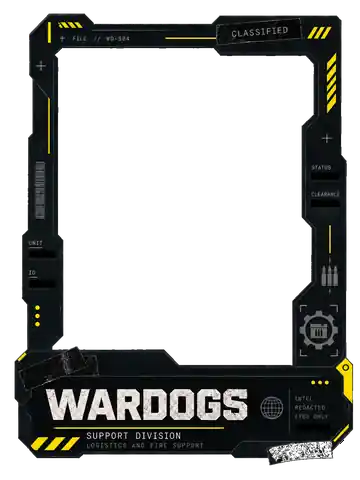
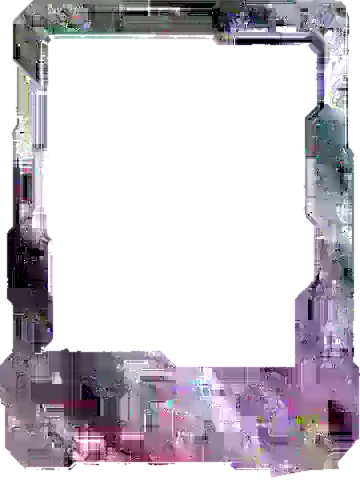
Replace Support frame and localize class label

diff --git a/index.html b/index.html
@@ -844,7 +844,7 @@ body[data-mws-mode="admin"] .sidebar-build-version-v53{display:block}
             <button type="button" class="wardogs-class-tab-v117 active" data-wardogs-class="assault" role="tab" aria-selected="true"><span class="wd-class-code">ASLT // 01</span><span class="wd-class-name">ASSAULT</span></button>
             <button type="button" class="wardogs-class-tab-v117" data-wardogs-class="medic" role="tab" aria-selected="false" tabindex="-1"><span class="wd-class-code">MED // 02</span><span class="wd-class-name">MEDIC</span></button>
             <button type="button" class="wardogs-class-tab-v117" data-wardogs-class="recon" role="tab" aria-selected="false" tabindex="-1"><span class="wd-class-code">RCN // 03</span><span class="wd-class-name">RECON</span></button>
-            <button type="button" class="wardogs-class-tab-v117" data-wardogs-class="support" role="tab" aria-selected="false" tabindex="-1"><span class="wd-class-code">SUP // 04</span><span class="wd-class-name">SUPPORT</span></button>
+            <button type="button" class="wardogs-class-tab-v117" data-wardogs-class="support" role="tab" aria-selected="false" tabindex="-1"><span class="wd-class-code">SUP // 04</span><span class="wd-class-name">서포트</span></button>
             <button type="button" class="wardogs-class-tab-v117" data-wardogs-class="driver" role="tab" aria-selected="false" tabindex="-1"><span class="wd-class-code">DRV // 05</span><span class="wd-class-name">DRIVER</span></button>
             <button type="button" class="wardogs-class-tab-v117" data-wardogs-class="pilot" role="tab" aria-selected="false" tabindex="-1"><span class="wd-class-code">PLT // 06</span><span class="wd-class-name">PILOT</span></button>
           </div>
@@ -1659,8 +1659,8 @@ body[data-mws-mode="admin"] .sidebar-build-version-v53{display:block}
 <script src="assets/app-core.js?v=1.3.0-search115-wardogs116-backup126-datetime149"></script>
 <script src="assets/wardogs-data-v1.js?v=1.0.0-phase120-webview130-zoom138"></script>
 <script src="assets/wardogs-media-v1.js?v=1.0.0-phase121-backup126-webview130"></script>
-<script src="assets/wardogs-manager-v1.js?v=1.0.0-phase127-touchfix-webview130-frame140-frame144-frames150-aperture152-assault157-medic158-recon159"></script>
-<script src="assets/wardogs-v1.js?v=1.0.0-phase125-portrait138-soopid141-frames150-aperture152-assault157-medic158-recon159"></script>
+<script src="assets/wardogs-manager-v1.js?v=1.0.0-phase127-touchfix-webview130-frame140-frame144-frames150-aperture152-assault157-medic158-recon159-support160"></script>
+<script src="assets/wardogs-v1.js?v=1.0.0-phase125-portrait138-soopid141-frames150-aperture152-assault157-medic158-recon159-support160"></script>
 <script src="assets/wardogs-intro-v1.js?v=1.0.0-phase118"></script>
 
 

diff --git a/assets/wardogs-v1.js b/assets/wardogs-v1.js
@@ -8,7 +8,7 @@ const CLASSES=Object.freeze([
   {id:'assault',name:'어썰트',code:'ASLT',label:'어썰트'},
   {id:'medic',name:'메딕',code:'MED',label:'메딕'},
   {id:'recon',name:'리콘',code:'RCN',label:'리콘'},
-  {id:'support',name:'SUPPORT',code:'SUP',label:'Support'},
+  {id:'support',name:'서포트',code:'SUP',label:'서포트'},
   {id:'driver',name:'DRIVER',code:'DRV',label:'Driver'},
   {id:'pilot',name:'PILOT',code:'PLT',label:'Pilot'}
 ]);
@@ -17,7 +17,7 @@ const CLASS_FRAMES=Object.freeze({
   assault:'assets/wardogs-frames/assault.webp?v=phase157',
   medic:'assets/wardogs-frames/medic.webp?v=phase158',
   recon:'assets/wardogs-frames/recon.webp?v=phase159',
-  support:'assets/wardogs-frames/support.webp?v=phase150',
+  support:'assets/wardogs-frames/support.webp?v=phase160',
   driver:'assets/wardogs-frames/driver.webp?v=phase150',
   pilot:'assets/wardogs-frames/pilot.webp?v=phase150'
 });

diff --git a/assets/wardogs-manager-v1.js b/assets/wardogs-manager-v1.js
@@ -8,7 +8,7 @@ const CLASS_META=Object.freeze([
   {id:'assault',label:'어썰트'},
   {id:'medic',label:'메딕'},
   {id:'recon',label:'리콘'},
-  {id:'support',label:'SUPPORT'},
+  {id:'support',label:'서포트'},
   {id:'driver',label:'DRIVER'},
   {id:'pilot',label:'PILOT'}
 ]);
@@ -18,7 +18,7 @@ const CLASS_FRAMES=Object.freeze({
   assault:'assets/wardogs-frames/assault.webp?v=phase157',
   medic:'assets/wardogs-frames/medic.webp?v=phase158',
   recon:'assets/wardogs-frames/recon.webp?v=phase159',
-  support:'assets/wardogs-frames/support.webp?v=phase150',
+  support:'assets/wardogs-frames/support.webp?v=phase160',
   driver:'assets/wardogs-frames/driver.webp?v=phase150',
   pilot:'assets/wardogs-frames/pilot.webp?v=phase150'
 });
